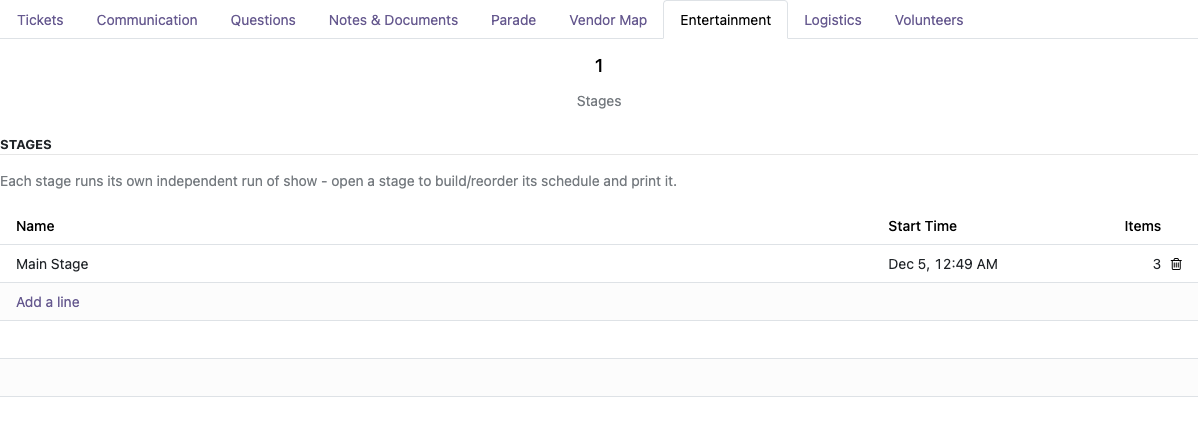
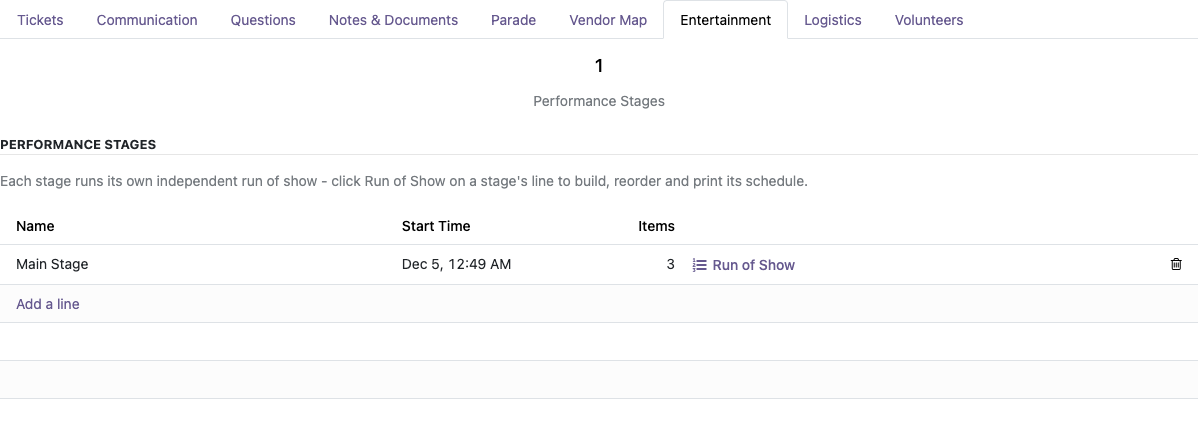
eLearning: teach the new paths and the Run of Show and View buttons

diff --git a/nonprofit_elearning_event_entertainment/migrations/19.0.1.0.1/post-migration.py b/nonprofit_elearning_event_entertainment/migrations/19.0.1.0.1/post-migration.py
@@ -1,0 +1,14 @@
+# -*- coding: utf-8 -*-
+from odoo import SUPERUSER_ID, api
+from odoo.tools import convert_file
+
+
+def migrate(cr, version):
+    """The course data is noupdate, so a normal upgrade won't touch lessons that
+    already exist. Reload it so corrections and screenshots reach installed
+    courses. This replaces any hand edits made to these lessons.
+    """
+    env = api.Environment(cr, SUPERUSER_ID, {})
+    convert_file(
+        env, "nonprofit_elearning_event_entertainment", "data/slide_channel_data.xml", {},
+        mode="init", noupdate=True)

diff --git a/nonprofit_elearning_event_logistics/migrations/19.0.1.2.1/post-migration.py b/nonprofit_elearning_event_logistics/migrations/19.0.1.2.1/post-migration.py
@@ -1,0 +1,14 @@
+# -*- coding: utf-8 -*-
+from odoo import SUPERUSER_ID, api
+from odoo.tools import convert_file
+
+
+def migrate(cr, version):
+    """The course data is noupdate, so a normal upgrade won't touch lessons that
+    already exist. Reload it so corrections and screenshots reach installed
+    courses. This replaces any hand edits made to these lessons.
+    """
+    env = api.Environment(cr, SUPERUSER_ID, {})
+    convert_file(
+        env, "nonprofit_elearning_event_logistics", "data/slide_channel_data.xml", {},
+        mode="init", noupdate=True)

diff --git a/nonprofit_elearning_volunteers/migrations/19.0.1.2.2/post-migration.py b/nonprofit_elearning_volunteers/migrations/19.0.1.2.2/post-migration.py
@@ -1,0 +1,14 @@
+# -*- coding: utf-8 -*-
+from odoo import SUPERUSER_ID, api
+from odoo.tools import convert_file
+
+
+def migrate(cr, version):
+    """The course data is noupdate, so a normal upgrade won't touch lessons that
+    already exist. Reload it so corrections and screenshots reach installed
+    courses. This replaces any hand edits made to these lessons.
+    """
+    env = api.Environment(cr, SUPERUSER_ID, {})
+    convert_file(
+        env, "nonprofit_elearning_volunteers", "data/slide_channel_data.xml", {},
+        mode="init", noupdate=True)

diff --git a/nonprofit_elearning_volunteers/__manifest__.py b/nonprofit_elearning_volunteers/__manifest__.py
@@ -1,7 +1,7 @@
 # -*- coding: utf-8 -*-
 {
     "name": "eLearning: Volunteer Coordination",
-    "version": "19.0.1.2.1",
+    "version": "19.0.1.2.2",
     "category": "Website/eLearning",
     "summary": "eLearning course: roles, shifts, screening, and volunteer hours",
     "description": """

diff --git a/nonprofit_elearning_event_entertainment/__manifest__.py b/nonprofit_elearning_event_entertainment/__manifest__.py
@@ -1,7 +1,7 @@
 # -*- coding: utf-8 -*-
 {
     "name": "eLearning: Stage Manager",
-    "version": "19.0.1.0.0",
+    "version": "19.0.1.0.1",
     "category": "Website/eLearning",
     "summary": "eLearning course: the performer roster, stages, and running a show",
     "description": """

diff --git a/nonprofit_elearning_event_logistics/__manifest__.py b/nonprofit_elearning_event_logistics/__manifest__.py
@@ -1,7 +1,7 @@
 # -*- coding: utf-8 -*-
 {
     "name": "eLearning: Logistics Lead",
-    "version": "19.0.1.2.0",
+    "version": "19.0.1.2.1",
     "category": "Website/eLearning",
     "summary": "eLearning course: permits, temp staff, crews, and facilities",
     "description": """
